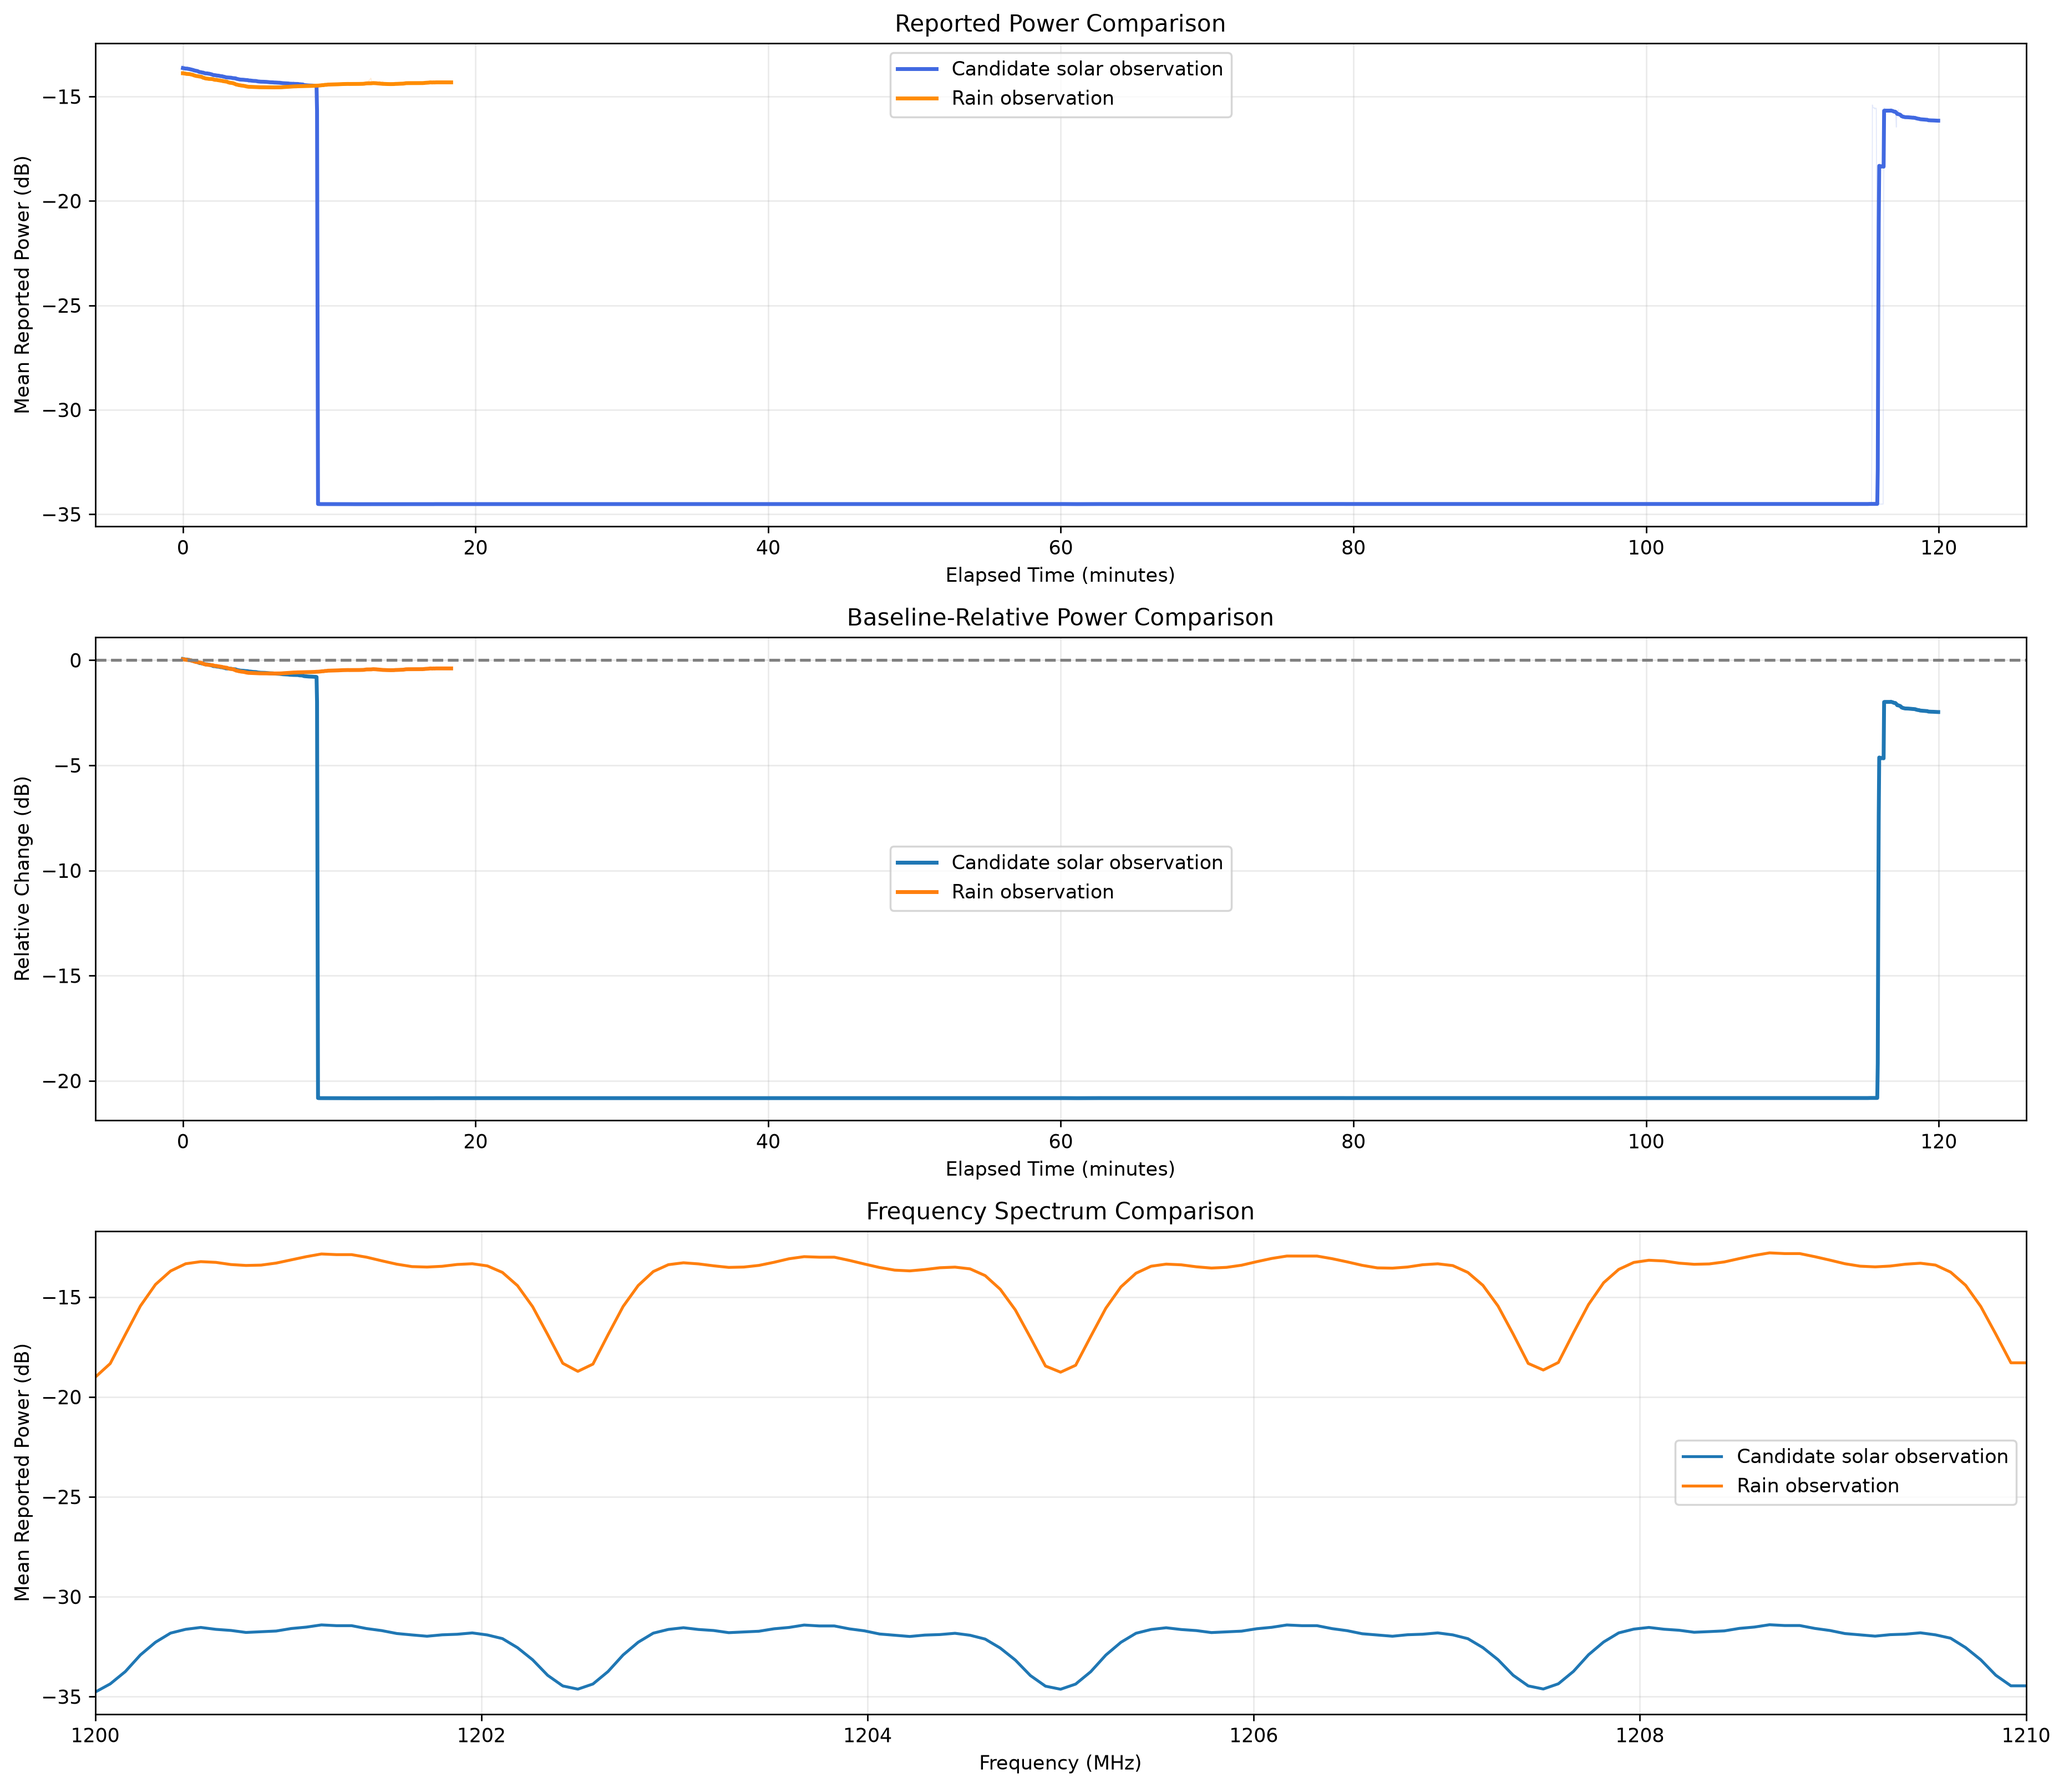
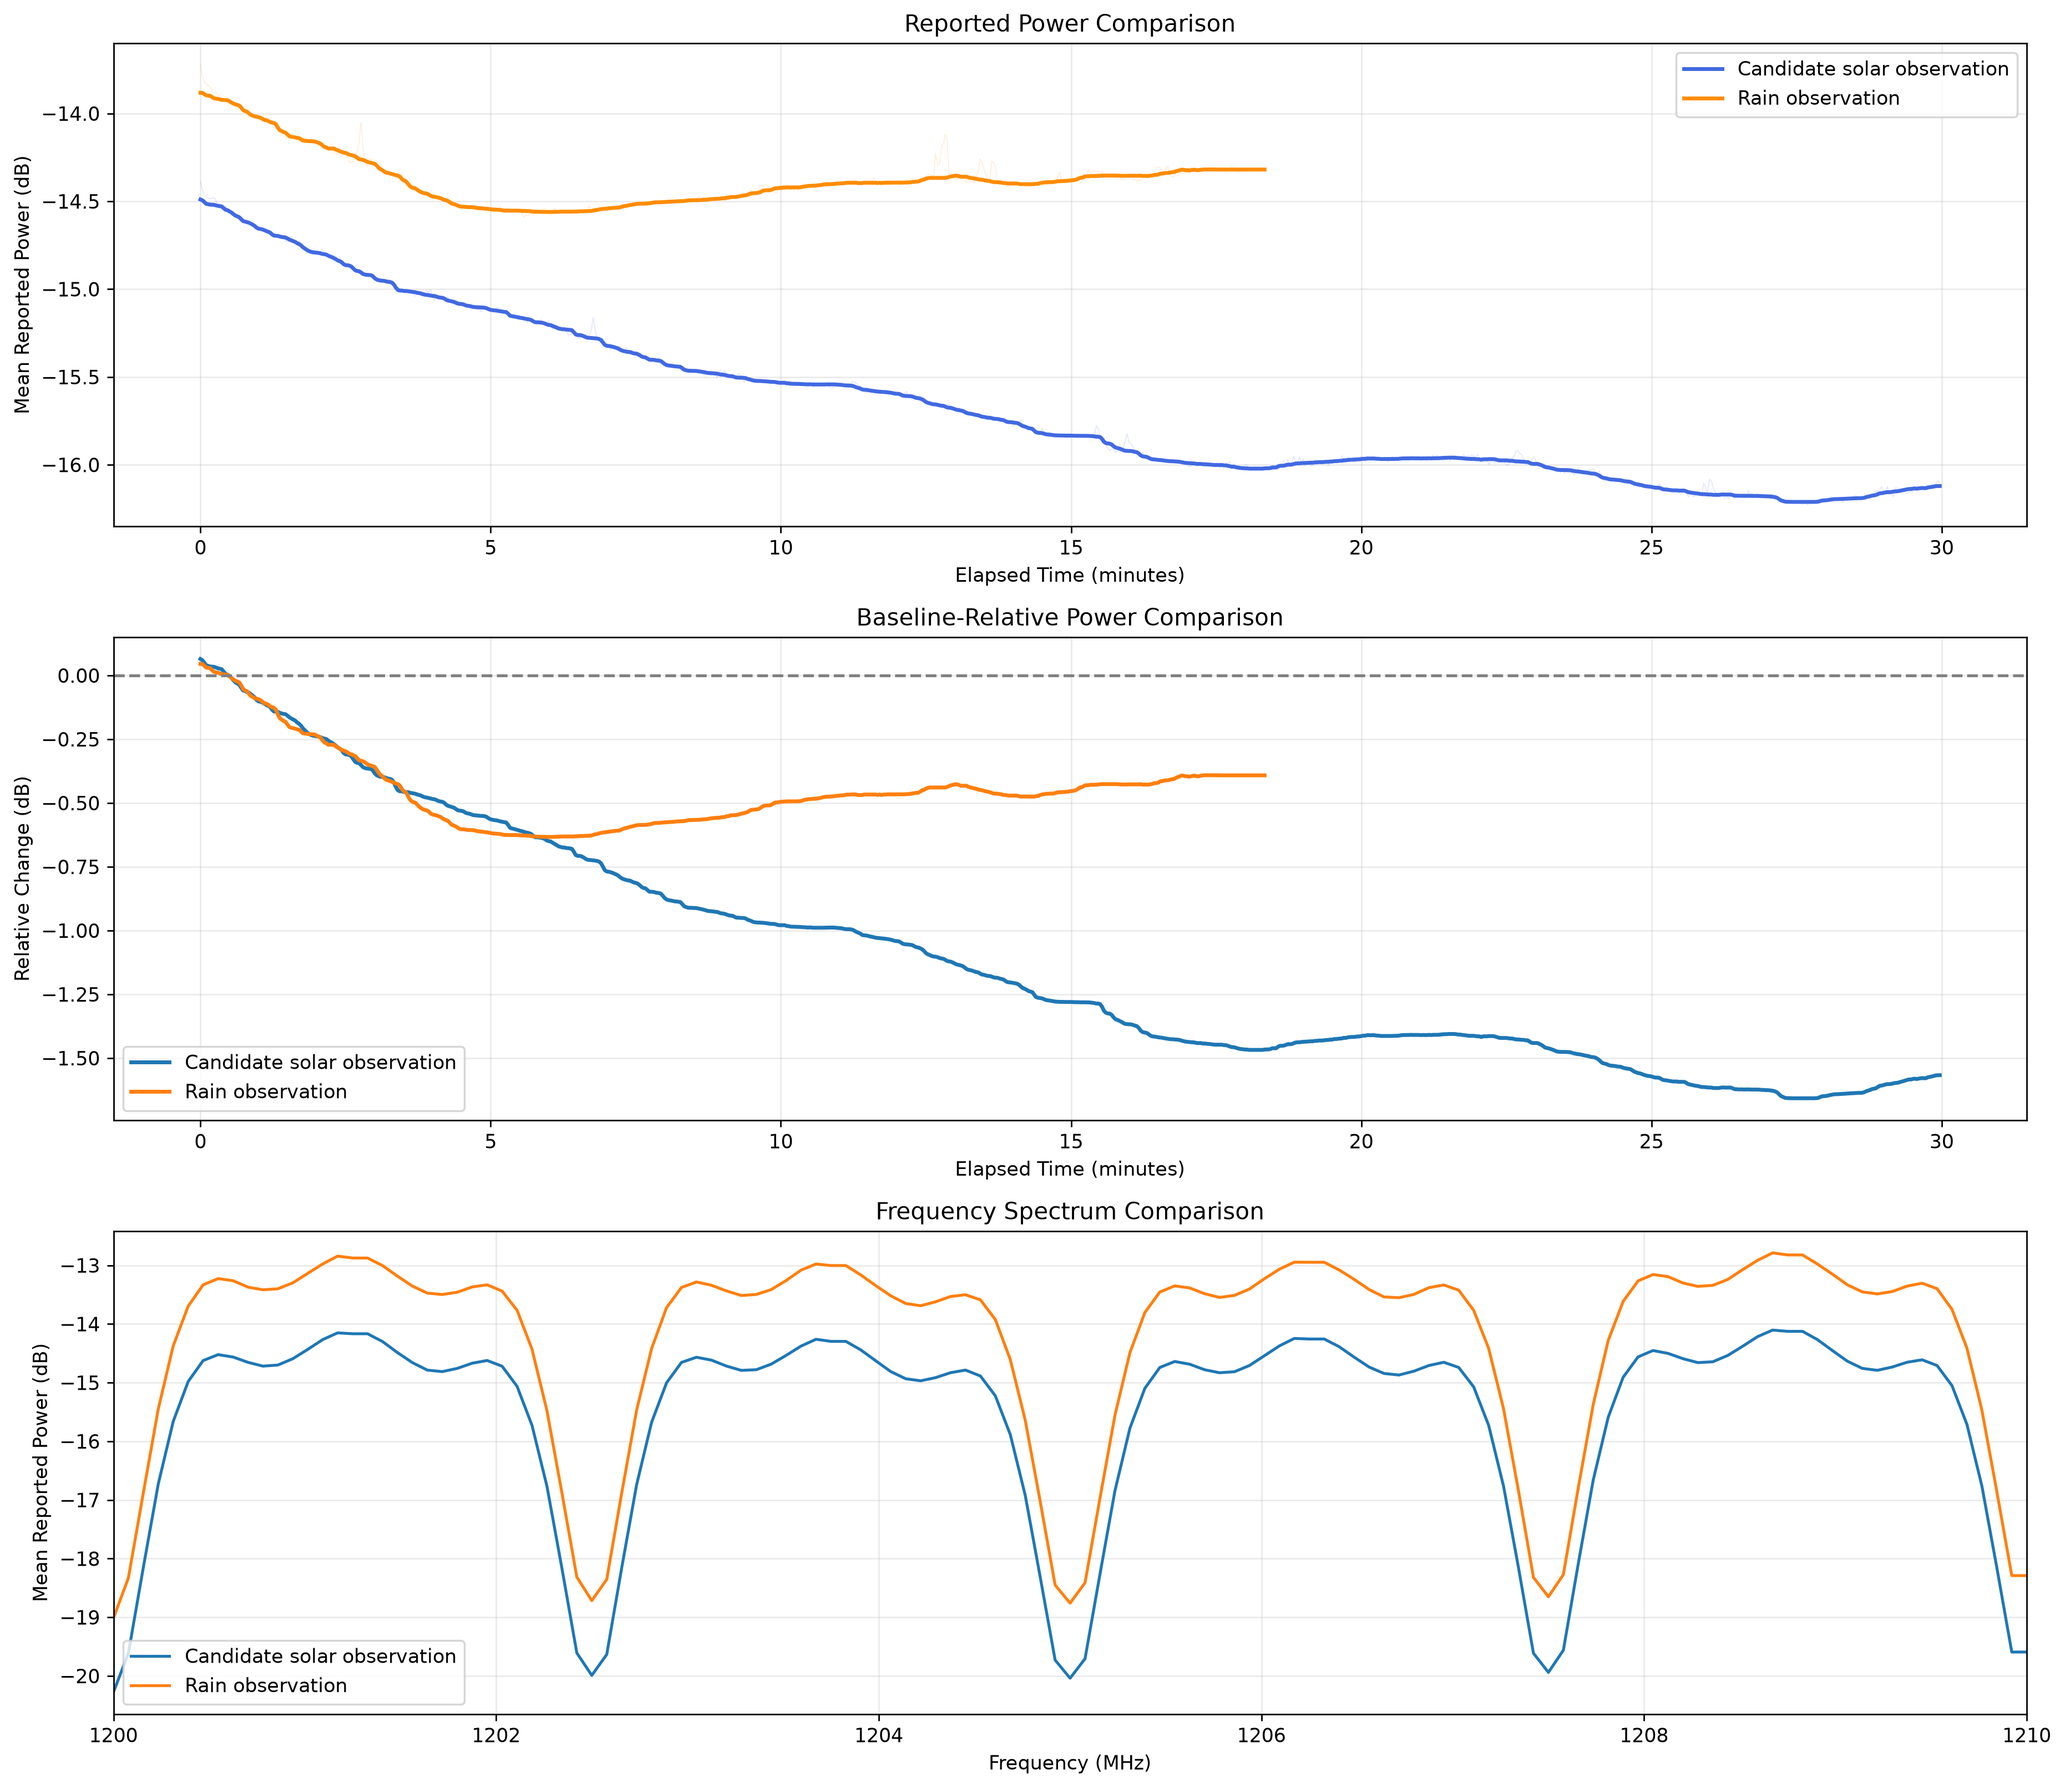
As we can see on the graph, both reported power seemed to align quite perfectly relative to one another, although it is still not enough to fully determine what was the cause for such observation. As usual, visual observations and recordings must exist as one of the parameters to draw accurate concl

diff --git a/code/temperature_plot.py b/code/temperature_plot.py
@@ -14,7 +14,7 @@ root = Path.home() / "Projects" / "Radio-Telescope"
 data = root / "instruments" / "data"
 graphs = root / "graphs"
 
-solar_file = data / "sps_exp_2026-10-31_1100.csv"
+solar_file = data / "sps_exp_attempt_2026-10-30.csv"
 rain_file = data / "new_baseline_rain_2026-10-30_1410.csv"
 temperature_file = data / "temperature_log.csv"
 
